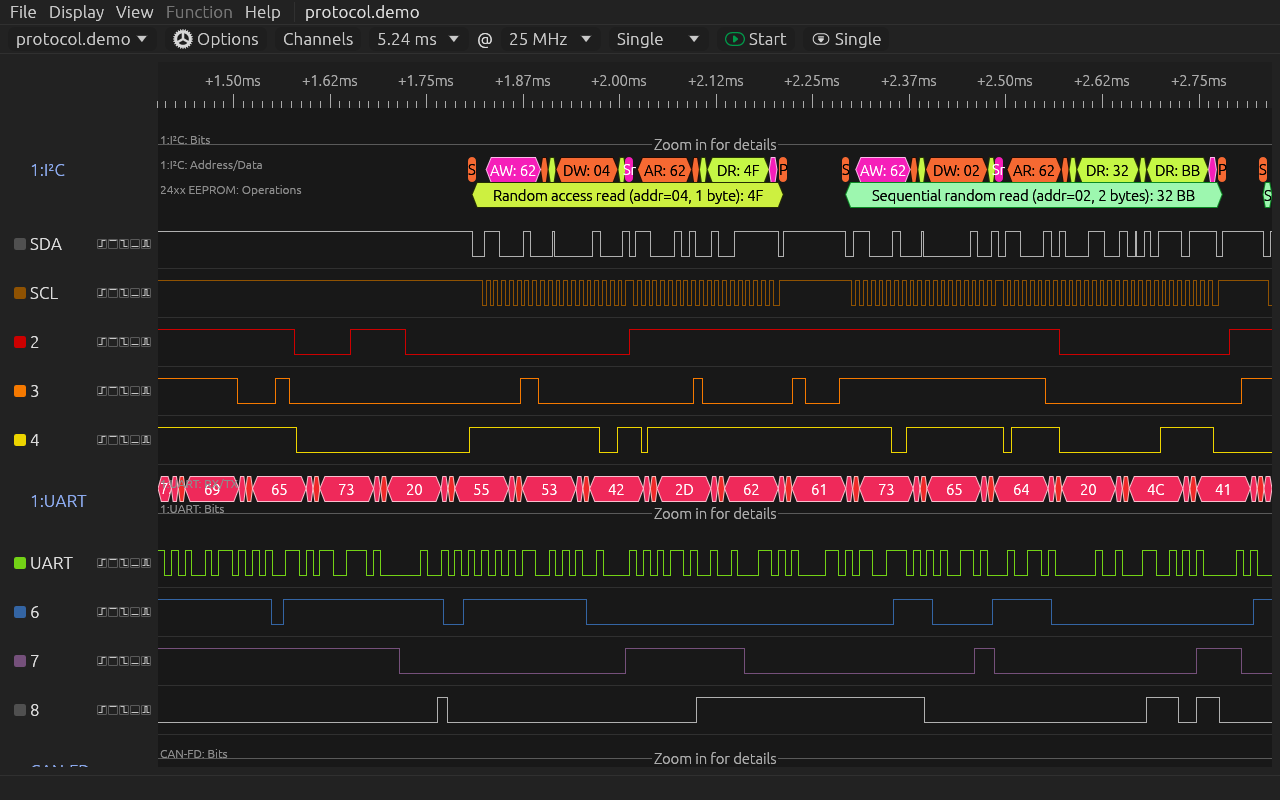
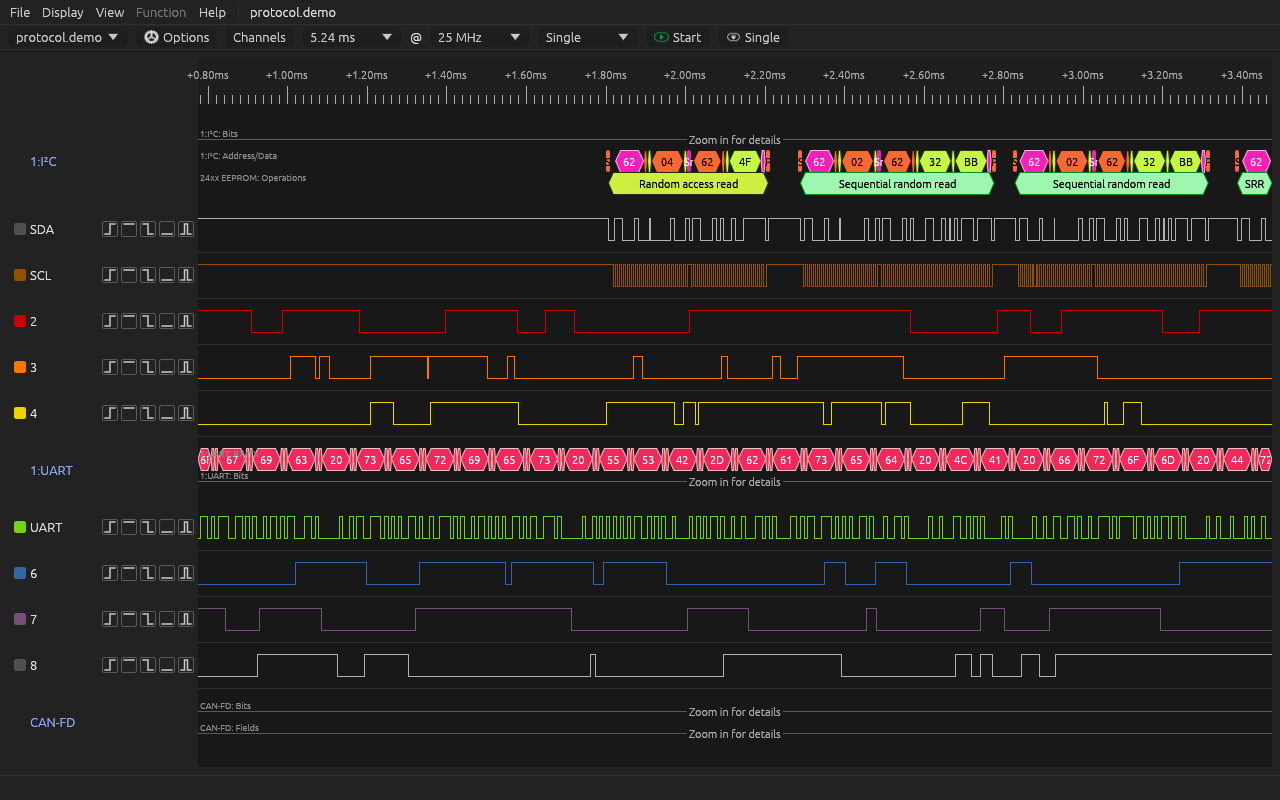
Docs: renew README and screenshots
Screenshots from the current GUI (trigger buttons, 1-2-5 ruler,
time-aligned protocol table, real DSO measurements); README with the
M7b features, diff-dsl/diff-ann, a troubleshooting section, CI and
Windows status. STATUS notes the DSO RMS/mean defect found meanwhile.

Claude-Session: https://claude.ai/code/session_01V6S77zqws9PiULdfg4ZKUA

diff --git a/README.md b/README.md
@@ -15,9 +15,12 @@ decoders are the sigrok Python decoders DSView ships.
 ## Features
 
 - **Logic analyzer:** buffer and stream capture at every rate of the DSLogic channel modes;
-  simple, advanced (multi-stage) and serial triggers; cursors, measurements and edge search.
+  simple, advanced (multi-stage) and serial triggers, set per channel with the trigger buttons
+  next to the channel name; cursors, measurements and edge search. A capture that would not fit
+  into the free memory is refused with a message instead of running out of memory.
 - **Protocol decoders:** 150+ decoders (I²C, SPI, UART, CAN/CAN-FD, I3C, SMBus/PMBus, JTAG,
-  SENT, DShot, …), stacked decoders, a protocol table with search and export.
+  SENT, DShot, …), stacked decoders, decoding while a stream capture runs, and a time-aligned
+  protocol table with search and CSV/TXT export.
 - **Oscilloscope and data acquisition:** V/div and timebase controls, trigger settings,
   measurements, math channels, FFT, Lissajous view, persistence, reference waveforms,
   histograms, channel-to-channel measurements, and a demo oscilloscope for use without hardware.
@@ -28,8 +31,9 @@ decoders are the sigrok Python decoders DSView ships.
 - **Automation:** a JSON-RPC control socket (`DSViewR --mcp`) and an MCP server
   ([`dsview-mcp`](dsview-mcp/README.md)), so scripts and AI agents can drive captures and read
   the results.
-- **Interface:** dark, light, Catppuccin Latte and Frappé themes; English, German and Chinese;
-  keyboard shortcuts; accessible to screen readers (AT-SPI).
+- **Interface:** dark, light, Catppuccin Latte and Frappé themes; English, German and Chinese
+  (with a built-in CJK font, so Chinese works without system fonts); keyboard shortcuts;
+  accessible to screen readers (AT-SPI).
 
 ## Install
 
@@ -58,10 +62,24 @@ dsviewr-cli export cap.dsl cap.csv                    # .csv, .vcd or .srzip
 dsviewr-cli decode cap.dsl --decoder i2c:scl=0,sda=1  # one line per annotation
 dsviewr-cli verify-counter --device dslogic           # DSLogic internal test mode
 dsviewr-cli selftest --out report/                    # a report bundle for bug reports
+dsviewr-cli diff-dsl a.dsl b.dsl                      # first differing sample per channel
+dsviewr-cli decode a.dsl --decoder uart:rxtx=0 --json > a.json
+dsviewr-cli diff-ann a.json b.json                    # first differing annotation
 dsviewr-cli serve --mcp                               # headless, behind the control socket
 ```
 
 `dsviewr-cli --help` lists every option.
+
+## When something goes wrong
+
+- **Log:** *Help → Log Options* sets the level and writes `~/DSViewR.log`; `dsviewr-cli` takes
+  `--log-level 0-5`.
+- **Crash reports:** a crash writes the message, a backtrace and the last 200 log lines to
+  `~/.local/state/dsview/crash/` (or `$XDG_STATE_HOME/dsview/crash/`). Nothing is uploaded.
+- **A decoder hangs or crashes:** start with `DSVIEW_PY_FAULTHANDLER=10` to print the Python
+  stack of every thread every 10 seconds (`=1`: only on a crash).
+- **Bug reports:** `dsviewr-cli selftest --out DIR` collects the device settings, a capture and
+  the full log; please attach the directory to the issue.
 
 ## Building from source
 
@@ -75,7 +93,10 @@ target/release/dsview-cli    # dsviewr-cli
 ```
 
 The packages are built by `.github/workflows/build.yml` with `cargo deb` and the scripts in
-`tools/package/`. Tests: `cargo nextest run --workspace` and `cargo xtask golden check`.
+`tools/package/`. Tests: `cargo nextest run --workspace` and `cargo xtask golden check`; CI also
+runs the control-API transcript, the MCP suite, fuzzing, Miri on the sample stores and an ingest
+benchmark (`.github/workflows/rust.yml`). Windows and macOS are not supported yet; the workspace
+type-checks for Windows in CI as groundwork for a port.
 
 ## Project status
 
@@ -85,7 +106,13 @@ compared with the original C/C++ code at each step: file formats, sample stores 
 output byte for byte, and USB traffic on a DSLogic Plus. The tag `c-final` holds the last tree
 with that C code and the comparison tools.
 
+Since 1.0, the post-parity work (M7b) fixed the defects found while porting and retired Qt
+quirks: data loss in captures whose length is not a multiple of 64, decoder hangs and crashes
+found by a decoder soak test, the DSO envelope, a faster capture ingest (above 1 GB/s) with a
+queue between USB and the sample store, and several start/stop races.
+
 - How the port was done, and what is left: [docs/migration/PLAN.md](docs/migration/PLAN.md),
+  [docs/migration/M7b-PLAN.md](docs/migration/M7b-PLAN.md),
   [docs/migration/STATUS.md](docs/migration/STATUS.md).
 - Where DSViewR intentionally behaves differently, and the defects of the original that were
   found: [docs/migration/DEVIATIONS.md](docs/migration/DEVIATIONS.md).

diff --git a/docs/migration/STATUS.md b/docs/migration/STATUS.md
@@ -1907,3 +1907,22 @@ graycode's `ChannelMapError`, `rgb_led_ws281x` color-order options, and `ir_irmp
   tests fixed"). The combined code: the flag is set and taken under one lock (this section); the
   bus check applies only when no stop was asked, so a user's stop is not relabelled as a detach;
   and `start_collect` also clears the flag.
+
+## README and screenshots renewed (2026-10-28)
+
+- **Screenshots** (`docs/screenshots/`, 1280×800):
+  - taken from the release GUI under Xvfb with a fresh config (driver hint off); the scenes were
+    set over the control socket (`open_file`, `show_region`, `select_device`, `start_capture`),
+    the docks and DSO measurements with `xdotool`, and captured with `import -window root`;
+  - they show the M7b GUI: 16 px trigger buttons, the 1-2-5 ruler, the time-aligned protocol
+    table, and real DSO measurements (frequency, period, peak-to-peak, amplitude, duty).
+- **Found while doing so:** the demo oscilloscope's RMS and mean are wrong (13.90 mV and 5.04 V
+  for a ±1.97 V sine; ≈ 1.39 V and 0 V expected), in the GUI and in `measure_dso` alike. Not yet
+  investigated; those two are left out of the screenshot.
+- **README:**
+  - the features of M7b: the memory guard, live decoding, the TXT export, the built-in CJK font;
+  - `diff-dsl`/`diff-ann` in the `dsviewr-cli` block;
+  - a "When something goes wrong" section: the log, crash reports, `DSVIEW_PY_FAULTHANDLER`,
+    `selftest`;
+  - CI coverage and the Windows status;
+  - an M7b summary, linking `M7b-PLAN.md`.
